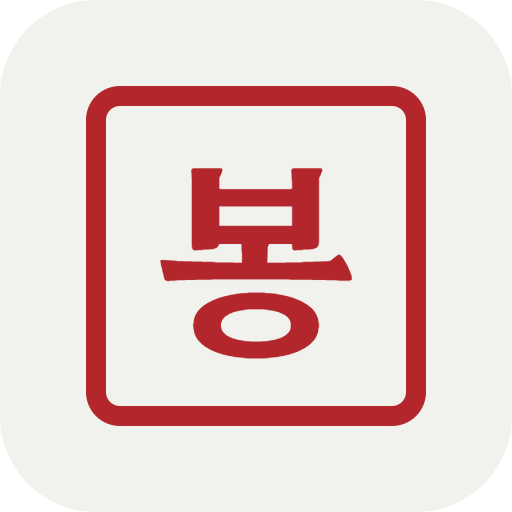
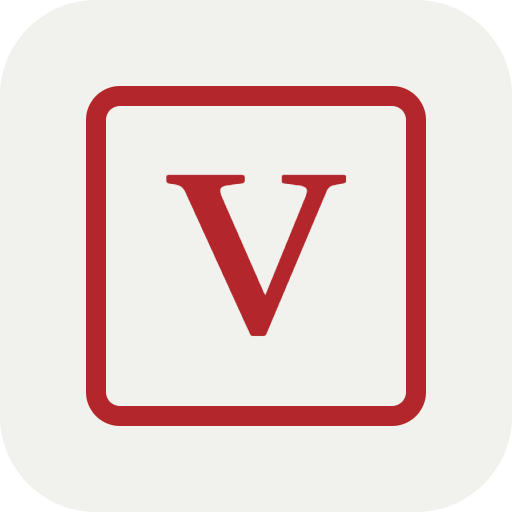
feat(web): tagline 'Keys, kept.' and a V seal
The tagline is the same in every language. The vertical seal on the unlock
screen is gone; the mark next to the name is the letter V. Icons regenerated.

Changed region(s): [[0.3125, 0.3125, 0.6875, 0.7188]]

diff --git a/apps/web/src/styles/app.css b/apps/web/src/styles/app.css
@@ -87,8 +87,6 @@ button.chip:hover { background: var(--line); color: var(--ink); }
 /* 도장: 이 앱의 유일한 장식. 인주 빨강 네모에 흰 글자, 안쪽에 얇은 테 한 줄 */
 .seal { display: inline-grid; place-items: center; flex: none; box-sizing: border-box; border: 1.5px solid var(--accent); color: var(--accent); font-family: var(--font-serif); font-weight: 600; line-height: 1; }
 .seal-mark { width: 1.7em; height: 1.7em; border-radius: 2px; font-size: .82em; }
-/* 세로 인장 "봉함": 면을 칠하지 않고 가는 붉은 선과 글자만. 기울이거나 움직이지 않는다 */
-.seal-hero { grid-auto-flow: row; gap: 3px; width: 44px; padding: 9px 0 8px; border-radius: 2px; font-size: 19px; box-shadow: inset 0 0 0 2.5px var(--surface-2), inset 0 0 0 3px var(--accent); }
 .empty { padding: 40px 20px; text-align: center; color: var(--muted); font-size: 13px; display: flex; flex-direction: column; gap: 12px; align-items: center; }
 .skeleton { background: linear-gradient(90deg, var(--line-2), var(--surface-2), var(--line-2)); background-size: 200% 100%; animation: shimmer 1.2s infinite; border-radius: 6px; height: 14px; }
 @keyframes shimmer { to { background-position: -200% 0; } }
@@ -349,7 +347,6 @@ button.chip:hover { background: var(--line); color: var(--ink); }
   .unlock-left > .logo, .unlock-left p, .unlock-facts { display: none; }
   .unlock-pitch { gap: 14px; }
   .unlock-left h1 { font-size: 26px; }
-  .seal-hero { width: 38px; padding: 7px 0 6px; font-size: 16px; }
   .unlock-right { padding: 24px 16px; align-items: flex-start; }
   .unlock-card { padding: 12px 4px; }
   .search-btn { width: auto; gap: 8px; }

diff --git a/apps/web/src/i18n/en.ts b/apps/web/src/i18n/en.ts
@@ -13,11 +13,10 @@ const count = (n: number, one: string, many = `${one}s`) => `${n} ${n === 1 ? on
 export const en: Strings = {
   app: {
     name: 'Vault',
-    tagline: 'A key ledger only you can open',
-    taglineLines: ['A key ledger', 'only you can open'],
-    // The red seal is the logo mark (封緘, "sealed shut"), so it stays as it is in every language. It is hidden from screen readers.
-    sealMark: '봉',
-    sealHero: ['봉', '함'],
+    tagline: 'Keys, kept.',
+    taglineLines: ['Keys,', 'kept.'],
+    // The red seal is the logo mark: the first letter of the name, the same in every language. It is hidden from screen readers.
+    sealMark: 'V',
     sees: [
       { label: 'What the server sees', value: 'Item count, modified times, sizes' },
       { label: 'What it cannot see', value: 'Key names and values, projects, where keys are used, notes' },

diff --git a/apps/web/src/components/Seal.tsx b/apps/web/src/components/Seal.tsx
@@ -2,18 +2,9 @@ import { ko } from '../i18n/ko';
 
 /**
  * 도장(인장). 이 앱에서 붉은색이 넓게 쓰이는 유일한 곳이다. 버튼은 잉크색이고, 빨강은 도장 찍듯 아껴 쓴다.
- * size="hero"는 잠금 화면의 세로 도장("봉함": 봉해서 닫음), 기본은 이름 옆 작은 한 글자 도장.
+ * 이름 옆의 작은 한 글자 도장(이름의 첫 글자 V) 하나뿐이다.
  */
-export function Seal({ size = 'mark' }: { size?: 'mark' | 'hero' }) {
-  if (size === 'hero') {
-    return (
-      <span className="seal seal-hero" aria-hidden="true">
-        {ko.app.sealHero.map((ch) => (
-          <span key={ch}>{ch}</span>
-        ))}
-      </span>
-    );
-  }
+export function Seal() {
   return (
     <span className="seal seal-mark" aria-hidden="true">
       {ko.app.sealMark}

diff --git a/apps/web/src/screens/UnlockScreen.tsx b/apps/web/src/screens/UnlockScreen.tsx
@@ -7,7 +7,7 @@ import { usePasswordScore } from '../app/strength';
 import { GOOGLE_CLIENT_ID } from '../app/session';
 import { evaluatePasskey } from '../app/passkey';
 import { markInstalled, markUnlock } from '../app/metrics';
-import { Logo, Seal } from '../components/Seal';
+import { Logo } from '../components/Seal';
 
 type Mode = 'password' | 'recovery' | 'restore';
 
@@ -32,7 +32,6 @@ export function UnlockScreen({ firstRun }: { firstRun: boolean }) {
       <section className="unlock-left">
         <Logo fontSize={18} />
         <div className="unlock-pitch">
-          <Seal size="hero" />
           <h1>
             {ko.app.taglineLines[0]}
             <br />

diff --git a/apps/web/src/i18n/ko.ts b/apps/web/src/i18n/ko.ts
@@ -7,10 +7,10 @@ import { en } from './en';
 const korean = {
   app: {
     name: 'Vault',
-    tagline: '나만 여는 키 장부',
-    taglineLines: ['나만 여는', '키 장부'],
-    sealMark: '봉',
-    sealHero: ['봉', '함'],
+    // 소개 문구는 상표처럼 쓴다: 어느 언어 화면에서도 같은 영어 두 낱말 (2026-11-25 사용자 결정)
+    tagline: 'Keys, kept.',
+    taglineLines: ['Keys,', 'kept.'],
+    sealMark: 'V',
     sees: [
       { label: '서버가 보는 것', value: '메모 개수, 수정 시각, 크기' },
       { label: '서버가 못 보는 것', value: '키 이름과 값, 프로젝트, 쓰이는 곳, 메모' },

diff --git a/apps/web/vite.config.ts b/apps/web/vite.config.ts
@@ -43,7 +43,7 @@ export default defineConfig(({ mode }) => ({
       registerType: 'autoUpdate',
       includeAssets: ['icon.svg', 'icon-192.png', 'icon-512.png'],
       manifest: {
-        name: 'Vault — 나만 여는 키 장부',
+        name: 'Vault — Keys, kept.',
         short_name: 'Vault',
         description: 'API 키와 환경변수를 기기에서 잠그는 키 장부',
         lang: 'ko',

diff --git a/docs/DESIGN.md b/docs/DESIGN.md
@@ -106,7 +106,7 @@
 ## 화면별 메모
 | 화면 | 핵심 |
 |---|---|
-| PC 잠금 | 좌: 세로 도장 + 가치 문장 + 서버가 보는 것 표 / 우: 카드 테두리 없이 종이 위에 놓인 비밀번호 양식, 복구 경로 2개 노출 |
+| PC 잠금 | 좌: 가치 문장 + 서버가 보는 것 표 (세로 도장 "봉함"은 2026-11-25에 뺐다. 이름 옆 도장은 글자 V) / 우: 카드 테두리 없이 종이 위에 놓인 비밀번호 양식, 복구 경로 2개 노출 |
 | PC 메인 | 가로 상단 바 없음. 3열(사이드바 244 / 목록 340 / 편집기). 사이드바: 로고, 검색(Ctrl K), 모든 메모·일정·오늘의 메모, 폴더, 태그, 아래에 휴지통·동기화 상태·설정·잠금. 항목마다 선 아이콘. "새 메모" 주 버튼은 목록 제목 오른쪽. 빈 편집기에는 자주 쓰는 동작 3개와 단축키 |
 | PC 팔레트 | 입력 + 지우기, 결과 섹션(메모/명령), 하단 키 힌트 |
 | PC 설정 | 좌측 섹션 메뉴 + 굵은 선으로 나눈 한 장의 문서(섹션마다 카드 상자를 두지 않는다). Drive(실선, 사용 중) vs Pro(점선, 업그레이드가 주 버튼) |
